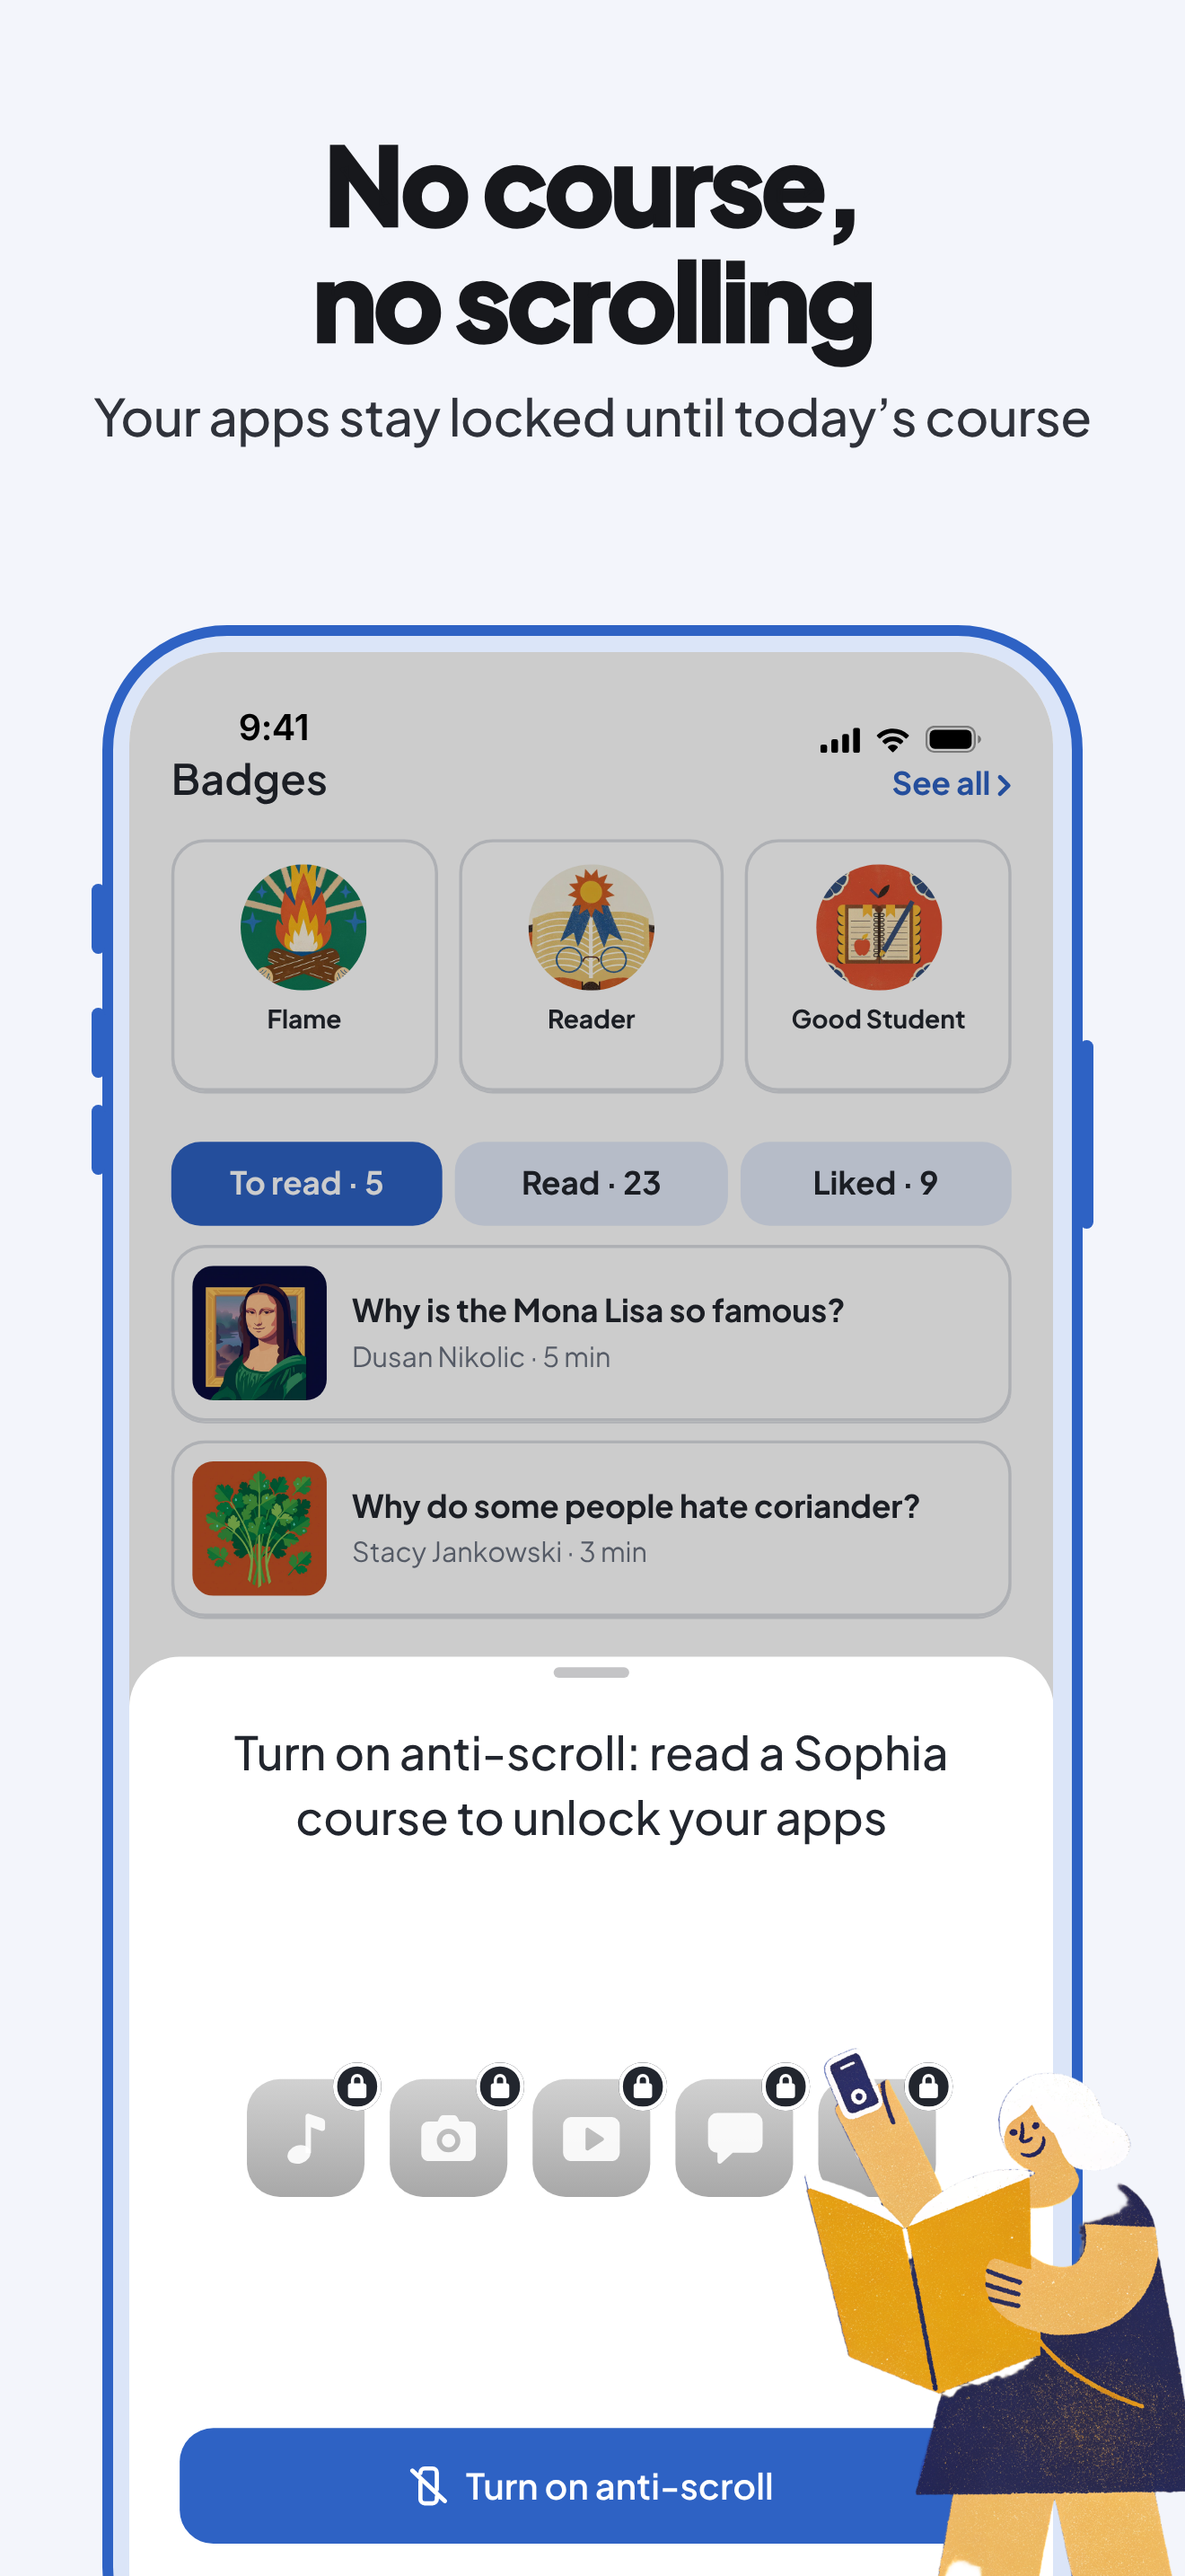
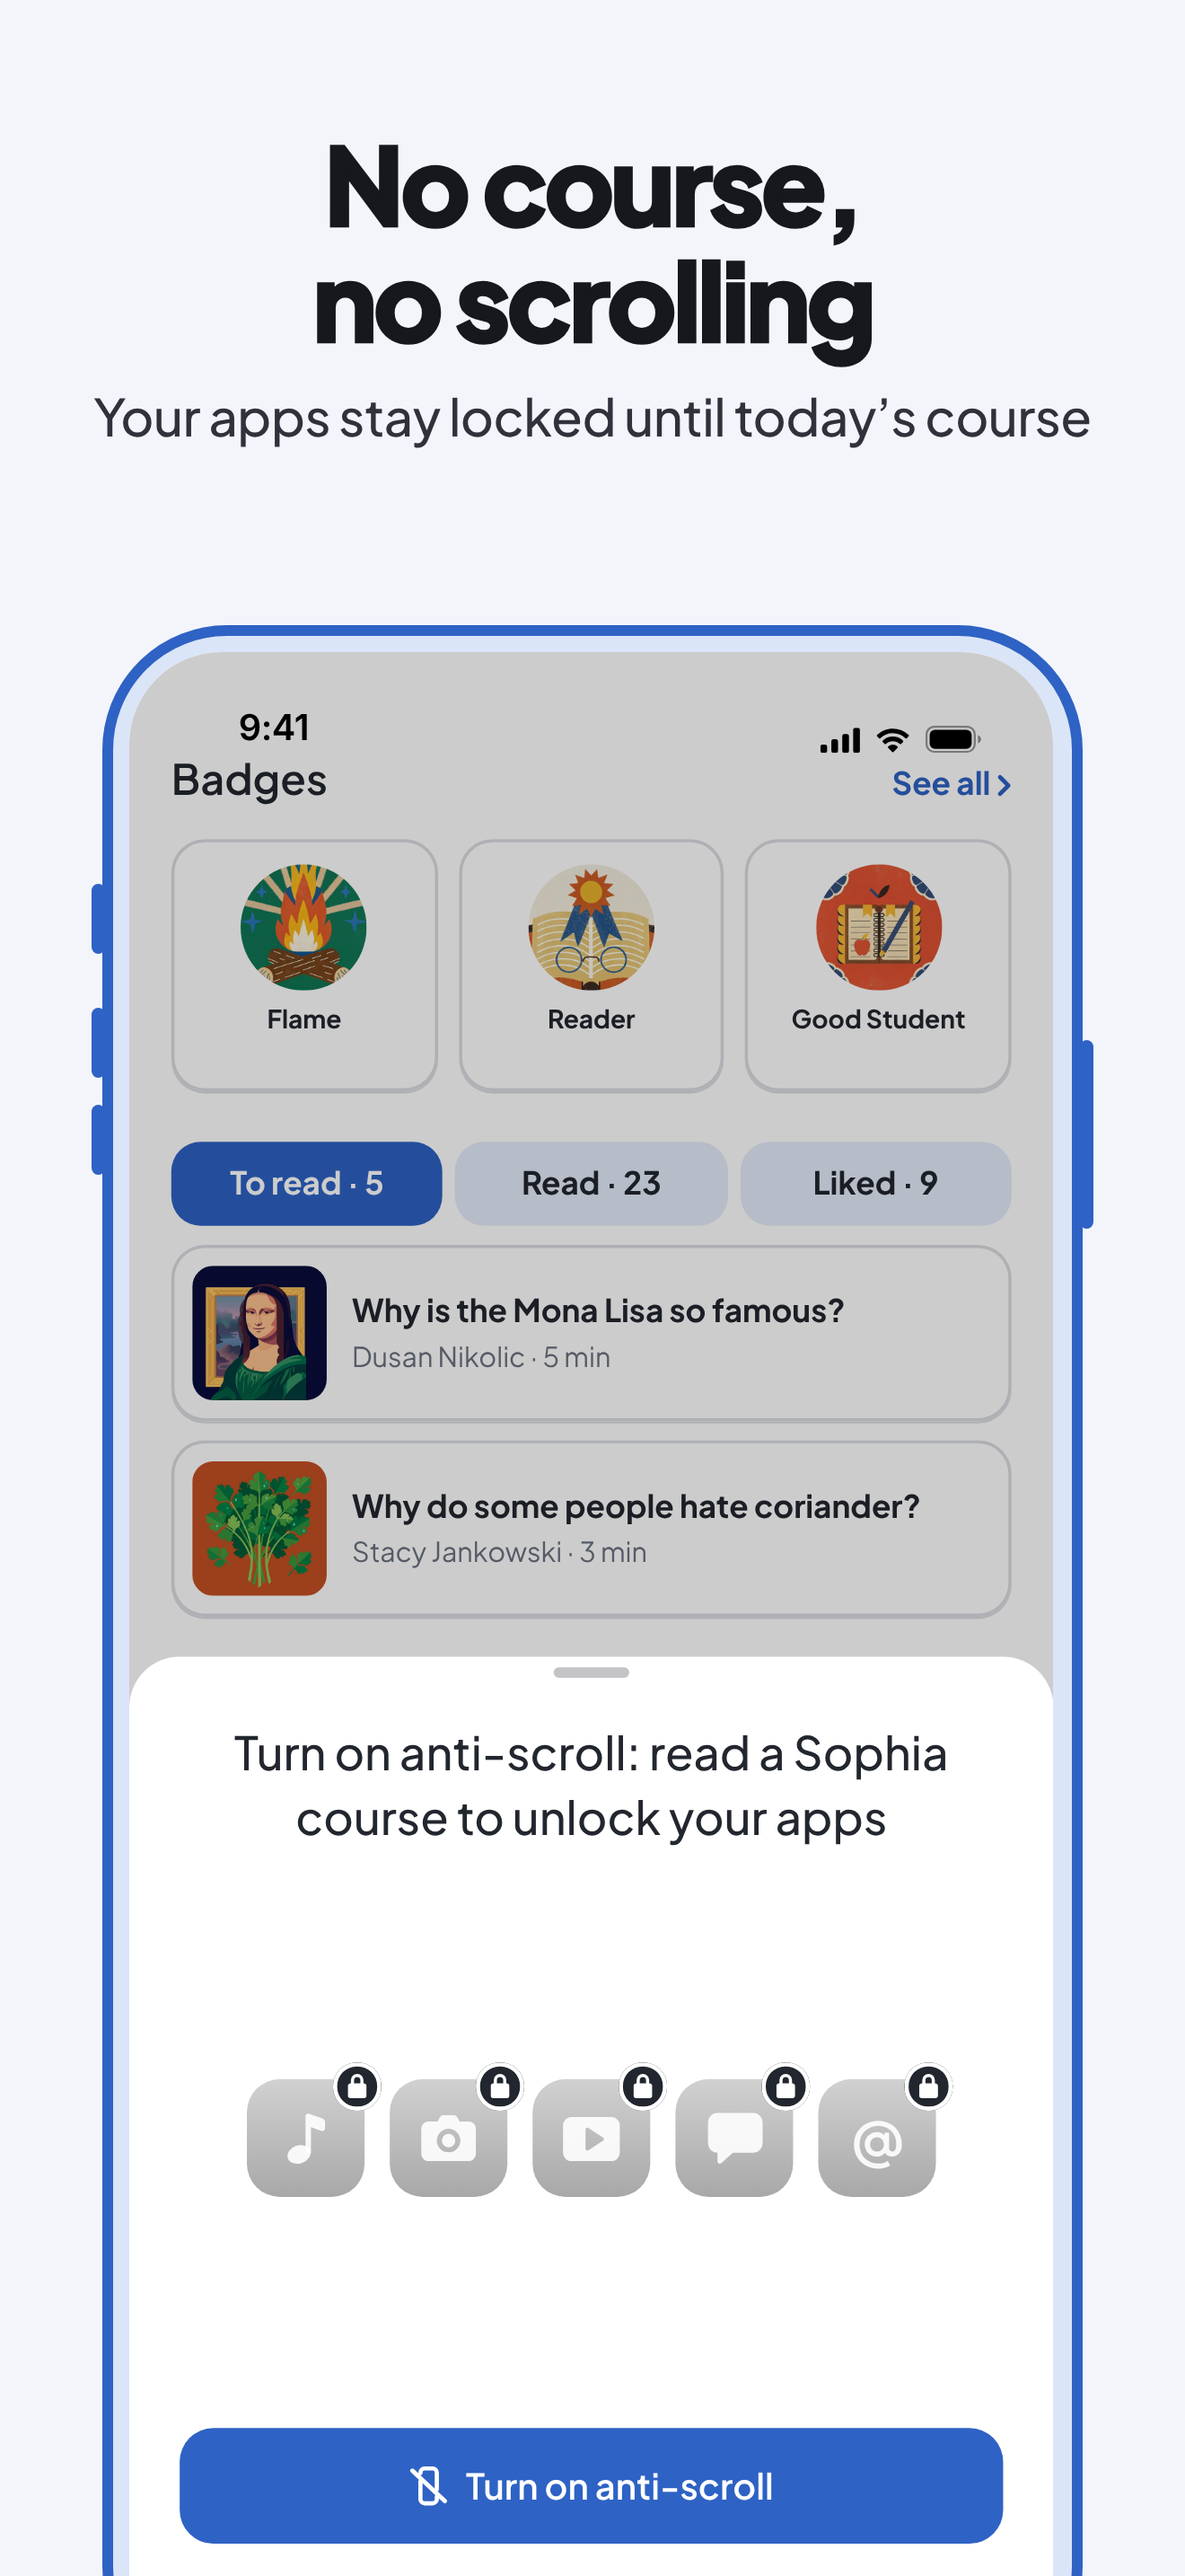
Captures App Store, showcase : neuf panneaux
Retire le panneau de la serie (24 days in a row) et le personnage du
panneau anti-scroll.

Claude-Session: https://claude.ai/code/session_01Yb4eBsmKHAU4mkJzSv6usd

Changed region(s): [[0.6833, 0.7758, 1.0, 1.0]]

diff --git a/appstore/screenshots/src/pano.js b/appstore/screenshots/src/pano.js
@@ -183,7 +183,6 @@ const PANOS = {
         ["Stacy Jankowski", "PhD in Biomedical Science, Boston University", "avatar_05"],
         ["Simon Lea", "PhD in Philosophy, independent scholar", "avatar_02"],
       ],
-      profile: ["24 days in a row.<br>You?", "Keep your streak alive"],
     } },
     panels: [
       { theme: "cream", logo: "brand", bubble: "hero" },
@@ -195,9 +194,8 @@ const PANOS = {
       { theme: "pale", text: "duels", cls: "center" },
       { theme: "pale", text: "blocker", cls: "center" },
       { theme: "pale", text: "profs", cls: "center", profs: "authors" },
-      { theme: "pale", text: "profile", cls: "center" },
     ],
-    phones: [["home", 1], ["reader", 2], ["quiz", 5], ["duels", 6], ["blocker", 7], ["profile", 9]].map(([s, i]) => ({
+    phones: [["home", 1], ["reader", 2], ["quiz", 5], ["duels", 6], ["blocker", 7]].map(([s, i]) => ({
       screen: s, cx: mid(i), cy: 232 + (956 * 0.78 + 21) / 2, s: 0.78,
       frame: i === 1 ? "#cdd9f5" : "#2e62c4", band: i === 1 ? "#e9effb" : "#dbe5f8" })),
     people: [
@@ -207,10 +205,8 @@ const PANOS = {
       { name: "boy_before", x: 112, b: 956, h: 232, z: 1 },
       { name: "girl_after", x: 322, b: 943, h: 216, z: 1 },
       { name: "trophy", x: P(4) + 220, b: 1000, h: 185 },
-      { name: "phone_away", x: P(7) + 372, b: 975, h: 215, flip: true },
       { name: "idea", x: P(8) + 330, b: 990, h: 240, flip: true },
       { name: "books", x: P(8) + 96, b: 975, h: 235 },
-      { name: "waving", x: P(9) + 388, b: 966, h: 205, flip: true },
     ],
     extras: [
       { x: 0, y: 931.5, z: 0, html: '<div style="width:440px;height:24.5px;background:#1e8e73"></div>' },

diff --git a/appstore/screenshots/README.md b/appstore/screenshots/README.md
@@ -55,9 +55,10 @@ other real reviews; a translated set needs reviews from that country's store.
 
 `node render-pano.cjs showcase`. Same look as `vitrine`, with the app screens in English
 (`screens/<name>.html?lang=en`: every screen except `explore` carries a French and an English
-`S` / `C`). Ten panels: opening on cream with the colour logo, « Get smarter every day » (For you
-feed, « Why does nobody smile in old photographs? »), « Learn in 10 minutes » (that course open),
-catalogue wall, reviews, quiz, duels, anti-scroll, « Written by professors », streak.
+`S` / `C`). Nine panels: opening on cream with the colour logo and a before / after pair, « Get
+smarter every day » (For you feed, « Why does nobody smile in old photographs? »), « Learn in
+10 minutes » (that course open), catalogue wall, reviews, quiz, duels, anti-scroll, « Written by
+professors ».
 
 The reviews are the only English-language ones the public feeds returned on 13 November 2026:
 two five-star and one four-star, shown with its four stars. The professors panel lists real
